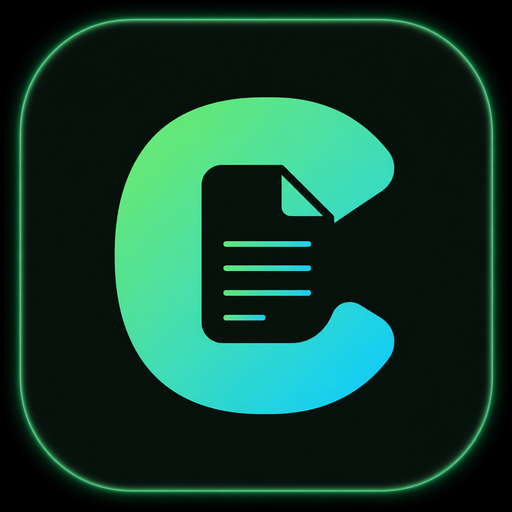
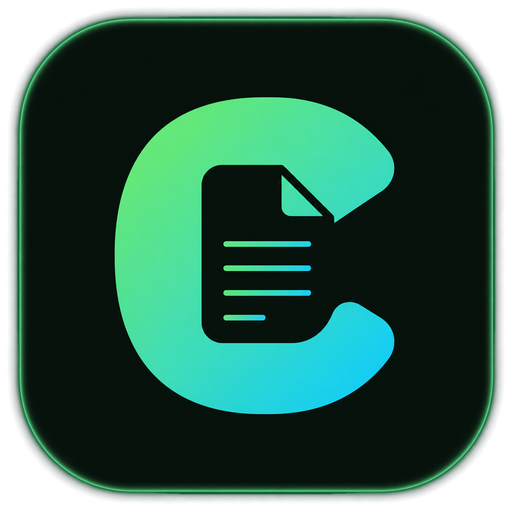
feat: 产品图标改透明边缘并封装成单一来源
- 图标去掉黑方块背景,四角透明,发光边缘自然渐隐
- 全站图标收敛到一个文件 public/app-icon.png + lib/brand.ts 常量
- 导航 logo/favicon/苹果图标/开场动画/分享图统一引用,换图只改一处
- 删除冗余的 logo-mark.png、icon-256.png

Changed region(s): [[0.0, 0.0, 1.0, 1.0]]

diff --git a/components/Logo.tsx b/components/Logo.tsx
@@ -1,13 +1,15 @@
 /*
-  品牌记号：Cowork 应用图标（深蓝底 + 玻璃质感的 Q）。
-  用真实 PNG（public/logo-mark.png，128px 源，够 retina）而不是内联 SVG——
-  这个玻璃/高光质感是位图渲染的，矢量重画不出来。
+  品牌记号：Cowork 应用图标（透明边缘的 C+文档发光图标）。
+  图源统一走 lib/brand 的 APP_ICON（public/app-icon.png）——全站唯一一份，换图只改那一处。
+  用真实 PNG 而不是内联 SVG——发光/渐变质感是位图渲染的，矢量重画不出来。
   保留 size/id 入参签名，调用方（Nav/Footer）无需改动；id 现在用不上了。
 */
+import { APP_ICON } from '@/lib/brand'
+
 export function Logo({ size = 24 }: { size?: number; id?: string }) {
   return (
     <img
-      src="/logo-mark.png"
+      src={APP_ICON}
       width={size}
       height={size}
       alt="Cowork"

diff --git a/app/layout.tsx b/app/layout.tsx
@@ -2,6 +2,7 @@ import type { Metadata } from 'next'
 import type { ReactNode } from 'react'
 import { Archivo, IBM_Plex_Mono } from 'next/font/google'
 import { PrefsProvider } from '@/lib/prefs'
+import { APP_ICON } from '@/lib/brand'
 import './globals.css'
 
 /*
@@ -44,11 +45,11 @@ export const metadata: Metadata = {
   title: 'Cowork — 一句话，让 AI 帮你做完 PPT、表格、方案',
   description:
     '桌面端的 Claude。智能助手加插件，139 项内置创作技能，还有帮你管好本地文件的文件管理系统——聊天，然后收文件。支持 macOS 与 Windows。',
-  icons: { icon: '/icon-256.png', apple: '/app-icon.png' },
+  icons: { icon: APP_ICON, apple: APP_ICON },
   openGraph: {
     title: 'Cowork',
     description: '桌面端的 Claude。聊天，然后收文件。',
-    images: ['/app-icon.png'],
+    images: [APP_ICON],
     type: 'website',
   },
 }

diff --git a/components/fx/Intro.tsx b/components/fx/Intro.tsx
@@ -12,6 +12,7 @@
 
 import { useEffect, useState } from 'react'
 import { useReducedMotion } from 'motion/react'
+import { APP_ICON } from '@/lib/brand'
 
 const SEEN_KEY = 'cd-intro-seen'
 
@@ -52,7 +53,7 @@ export function Intro() {
   return (
     <div className="intro-overlay fixed inset-0 z-[100] grid place-items-center bg-canvas" aria-hidden="true">
       <div className="text-center">
-        <img src="/app-icon.png" alt="Cowork" width={80} height={80} className="intro-mark mx-auto size-[80px]" />
+        <img src={APP_ICON} alt="Cowork" width={80} height={80} className="intro-mark mx-auto size-[80px]" />
         <div className="intro-word mt-[18px] font-mono text-[13px] tracking-[0.35em] text-dim">
           COWORK
         </div>

diff --git a/lib/brand.ts b/lib/brand.ts
@@ -1,0 +1,10 @@
+/*
+  品牌资产的「单一出处」（single source of truth）。
+
+  全站的产品图标只有这一个文件：public/app-icon.png（透明边缘的 C+文档发光图标）。
+  它同时充当：导航栏 logo、浏览器标签页 favicon、苹果书签图标、开场动画、社交分享预览图。
+
+  想换图标 —— 直接用新图覆盖 public/app-icon.png 即可，全站一起换掉，不用动任何代码。
+  路径也收在这一处：哪天要改文件名，只改下面这一行，三处引用自动跟着变。
+*/
+export const APP_ICON = '/app-icon.png'
